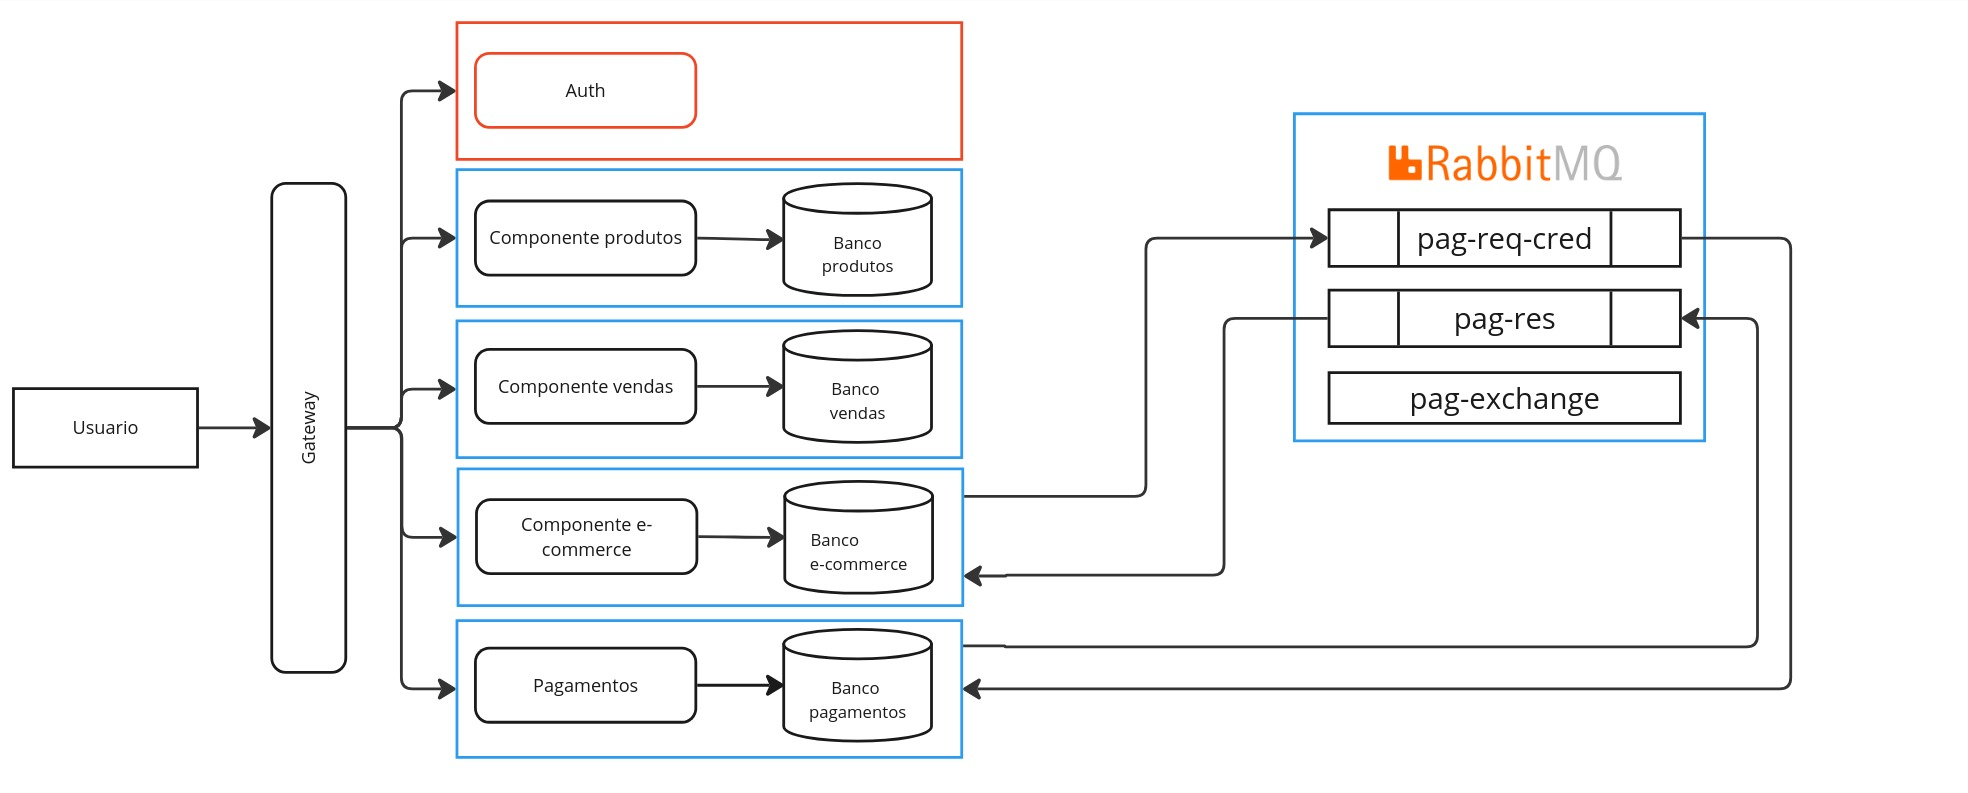
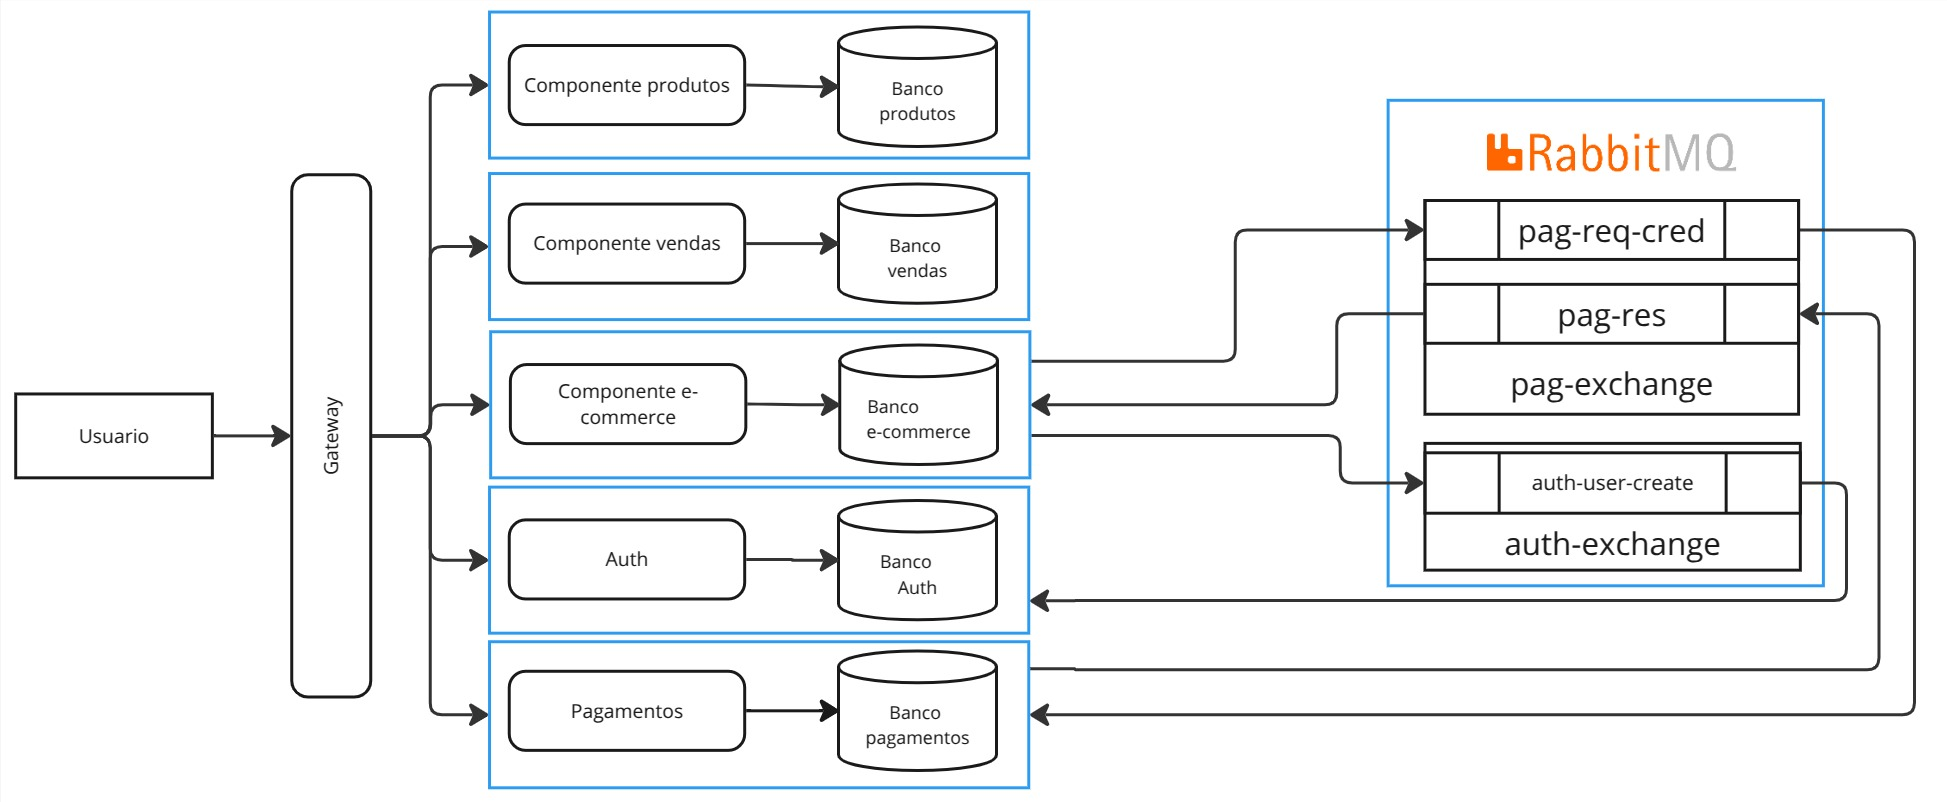
Docs

Changed region(s): [[0.0, 0.0, 0.9861, 0.9987]]

diff --git a/README.md b/README.md
@@ -16,7 +16,7 @@
 | Componente-ecommerce  | [x] Criar usuarios <br> [x] Editar usuarios <br> [x] Remover usuarios <br> [x] Listar usuarios <br> [x] Criar vendas <br> [x] Atualizar status da venda <br> [ ] Permissão de usuarios |
 | Componente-pagamentos | [x] Criar pagamentos <br> [x] Consultar pagamentos                                                                                                                                     |
 |  Componente-gateway   | [x] Roteamento de requisições                                                                                                                                                          |
-|    Componente-auth    | [ ] Autenticação de usuários                                                                                                                                                           |
+|    Componente-auth    | [x] Autenticação de usuários                                                                                                                                                           |
 
 ## Executar projeto:
 
